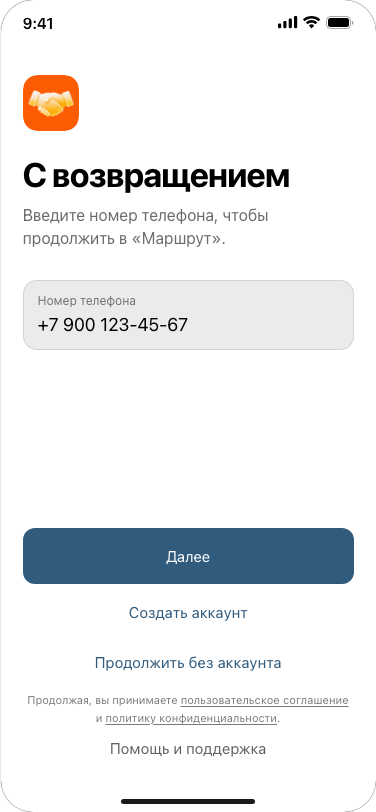
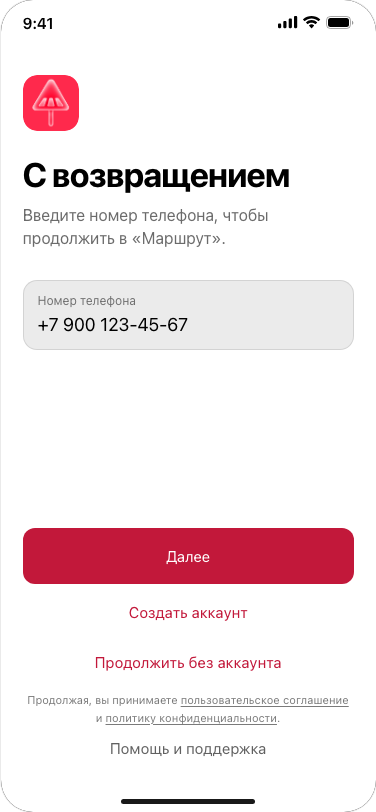
Refresh launcher previews

Changed region(s): [[0.0585, 0.6466, 0.9654, 0.7697], [0.2633, 0.8005, 0.7606, 0.8313], [0.0585, 0.0924, 0.234, 0.1847]]

diff --git a/platform/concepts/uzel/styles.css b/platform/concepts/uzel/styles.css
@@ -496,7 +496,7 @@
   margin-top: auto;
 }
 .unified-auth.auth-uzel .unified-auth-link {
-  color: #00458f !important;
+  color: #7d2bd2 !important;
 }
 .unified-auth.auth-uzel { --accent:#0057b8; --accent-fill:#0057b8; }
 .auth-uzel[data-screen="account"] .unified-auth-danger {
